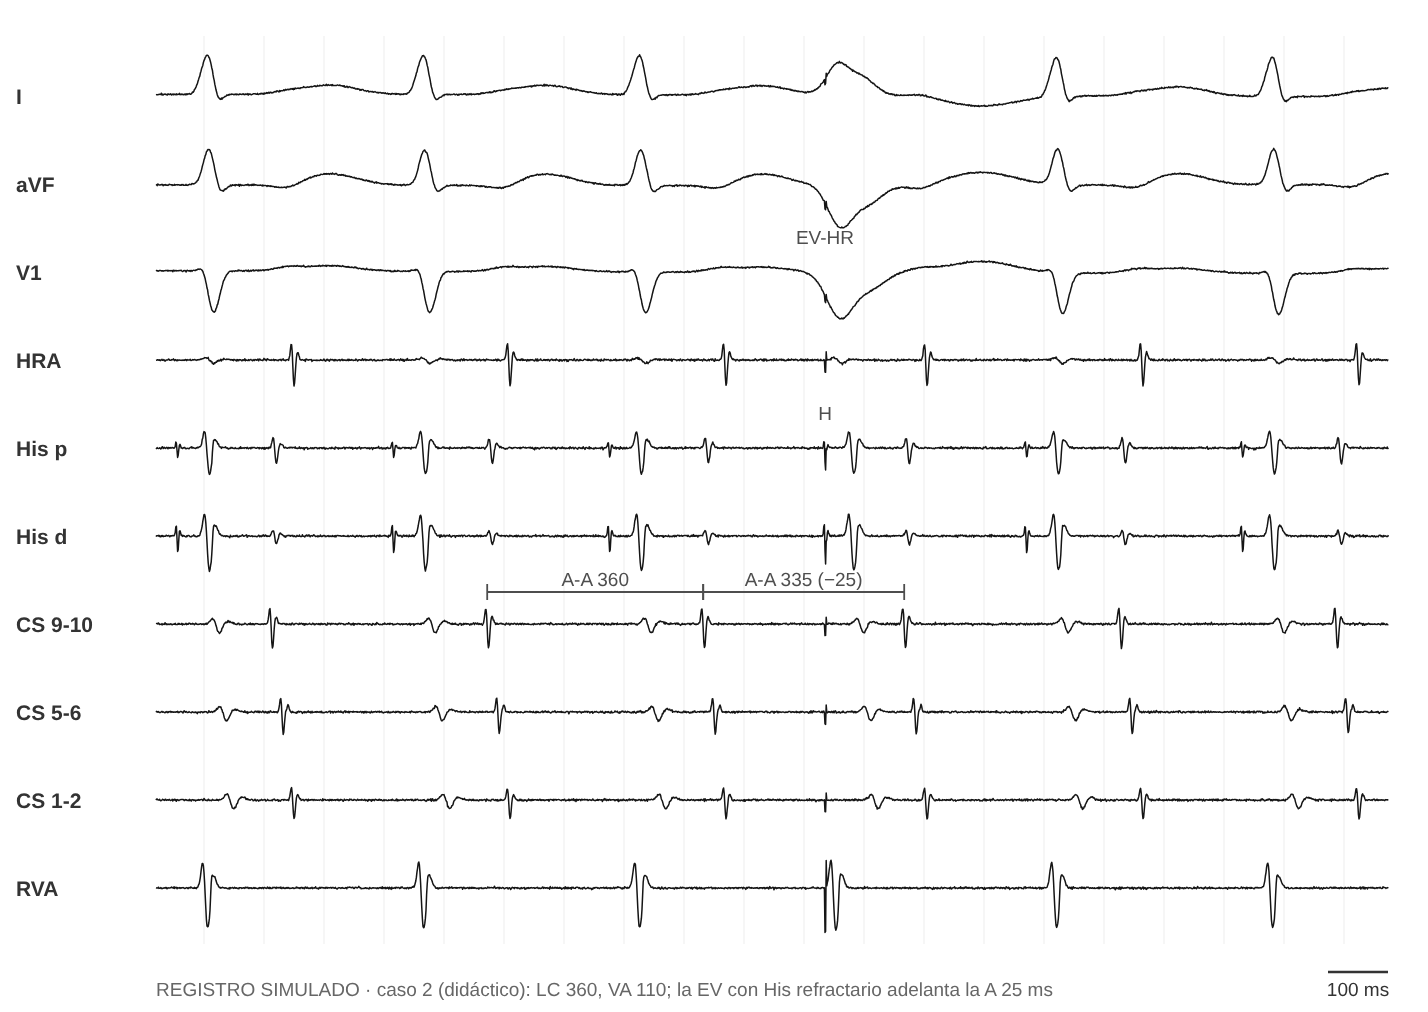
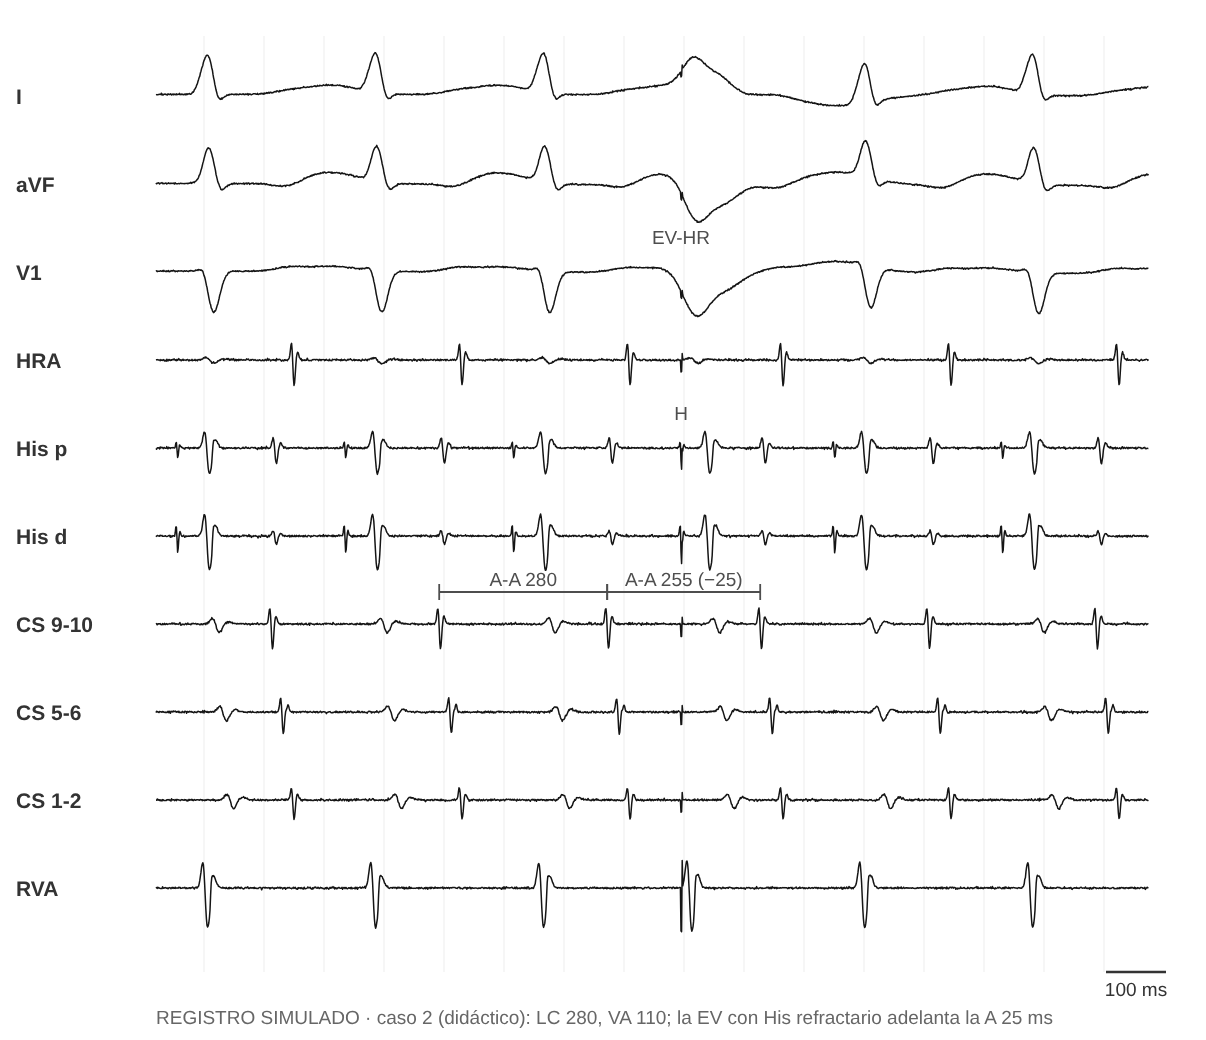
Caso 2: ECG real de TRAV septal (anonimizado), LC 280, basal, inducción, encarrilamiento y EV-HR propios
Claude-Session: https://claude.ai/code/session_01Pw5rjt62KK5LeJZoEyFiaM

diff --git a/index.html b/index.html
@@ -1081,9 +1081,10 @@ const PCASOS = [
       eha: { r: 'Un EA con His refractario desde el ostium del SC retrasa el His siguiente 14 ms.', u: 'util' } },
     dx: ['trnav_t'], ex: 'Un VA septal ≤ 70 ms excluye la TRAV, y la respuesta A-V a la sobreestimulación ventricular excluye la TA. Con esas dos observaciones se llega a la TRNAV típica (41 % de las TSV en la serie de Knight).', refs: ['knight00', 'knight99', 'veen11'] },
   { id: 'c2', t: 'TSV de RP corto con VA de 110 ms', p: 'Niña de 10 años con TSV recurrentes. ECG basal sin preexcitación.',
-    h: ['TSV de QRS angosto, LC 360 ms', 'Relación AV 1:1', 'VA septal 110 ms, RP corto', 'Activación concéntrica, más precoz en el ostium del SC'],
+    ecg: 'figs/sim/casos/c2_ecg.jpg', ecgReal: true, basal: 'figs/sim/casos/c2_basal.png', ind: 'figs/sim/casos/c2_ind.png',
+    h: ['TSV de QRS angosto, LC 280 ms', 'Relación AV 1:1', 'VA septal 110 ms, RP corto', 'Activación concéntrica, más precoz en el ostium del SC'],
     m: { vop: { r: 'Respuesta A-V. Desde el ápex el QRS estimulado no muestra fusión evidente.', u: 'util' },
-      medidas: { r: 'PPI−LC 80 ms; SA−VA 40 ms; ΔHA −45 ms.', u: 'clave', img: 'figs/sim/prac/michaud01.png' },
+      medidas: { r: 'PPI−LC 80 ms; SA−VA 40 ms; ΔHA −45 ms.', u: 'clave', img: 'figs/sim/prac/p2_vop.png' },
       ehr: { r: 'Una EV con His refractario adelanta la A 25 ms sin cambiar la secuencia.', u: 'clave', img: 'figs/sim/prac/p2_ehr.png' },
       diff: { r: 'ΔVA (base − ápex) −10 ms; ΔcPPI−LC +2 ms.', u: 'util' },
       parahis: { r: 'Al perder la captura del His el SA no cambia: respuesta extranodal.', u: 'util' },

diff --git a/sw.js b/sw.js
@@ -1,6 +1,6 @@
 // Permite instalar la app y abrirla sin conexión. Primero la red (siempre lo último publicado); si no hay, la copia.
 // Si cambiás un archivo, subí CACHE_VERSION.
-const CACHE_VERSION = 'mef-v63';
+const CACHE_VERSION = 'mef-v64';
 const ARCHIVOS = ['./', './index.html', './manifest.json', './iconos/icon-192.png', './iconos/icon-512.png'];
 self.addEventListener('install', e => e.waitUntil(caches.open(CACHE_VERSION).then(c => c.addAll(ARCHIVOS)).then(() => self.skipWaiting())));
 self.addEventListener('activate', e => e.waitUntil(caches.keys().then(ks => Promise.all(ks.filter(k => k !== CACHE_VERSION).map(k => caches.delete(k)))).then(() => self.clients.claim())));

diff --git a/herramientas/simulador/cases5.py b/herramientas/simulador/cases5.py
@@ -165,6 +165,39 @@ S['c8_ind'] = dict(win=(-80, vt[-1] + 200), pxms=0.27, title='Inducción: extrae
     extra={'LV 1-2': [(t, 0.32, 0.8) for t in p1] + [(t, 0.55, 0.7) for t in p2]},
     cal=[(sp[1], sp[2], 'RVA', 'S2 280'), (vt[2], vt[3], 'RVA', f'LC {LC8}'), (a_sin[1], a_sin[2], 'HRA', 'A-A 800')])
 
+# Caso 2 (didáctico, TRAV septal en una niña de 10 años): LC 280 como el ECG real, VA 110, AH en la TSV 125.
+S['c2_basal'] = basal('caso 2 (didáctico): AH 80, HV 45, ilustrativos', ah=80, cl=650)
+sp = [0, 600, 900]
+hs = [s + 28 + a for s, a in zip(sp, [80, 80, 150])]
+A = []
+for _ in range(6):
+    A.append(hs[-1] + HV + 110)
+    hs.append(A[-1] + 8 + 117)                       # A más precoz en el ostium del SC
+vs = [h + HV for h in hs]
+S['c2_ind'] = dict(win=(-80, vs[-1] + 200), pxms=0.30, title='Inducción: extraestímulo auricular (S1-S2 600-300)', channels=CH6,
+    src='caso 2 (didáctico): valores ilustrativos', beats=[(v, 'n') for v in vs], aspikes=sp, apace_ch='HRA',
+    atr=[(s + 5, 'sinus', 1) for s in sp] + [(a, 'conc_cs', -1) for a in A[:-1]], h_ante=hs[:-1],
+    cal=[(sp[1], sp[2], 'HRA', 'S2 300'), (sp[2] + 28, hs[2], 'His d', 'AH 150'),
+         (vs[3], A[1] + 2, 'CS 9-10', 'VA 110'), (vs[5], vs[6], 'RVA', f'LC {vs[6] - vs[5]}')])
+S['c2_ind']['beats'] = S['c2_ind']['beats'][:-1]
+S['c2_ind']['win'] = (-80, vs[-2] + 220)
+
+# Caso 2: encarrilamiento desde el ápex a 250 (6 estímulos). LC 280, VA 110, SA 150, PPI 360 (SA−VA 40 y PPI−LC 80 de Michaud).
+LC2, VA2, SC2, SA2, PPI2 = 280, 110, 250, 150, 360
+svt = [0, LC2, 2 * LC2]
+sp = [svt[-1] + 230 + SC2 * k for k in range(6)]
+A = [v + VA2 for v in svt] + [s + SA2 for s in sp]
+ret = sp[-1] + PPI2
+after = [ret, ret + LC2]
+S['p2_vop'] = dict(win=(-80, after[-1] + 220), pxms=0.28, title='Encarrilamiento desde el ápex del VD a 250 ms', channels=CH6,
+    src='caso 2 (didáctico): valores ilustrativos',
+    beats=[(v, 'n') for v in svt + after] + [(s, 'pa') for s in sp], spikes=sp,
+    atr=[(a, 'conc_cs', -1) for a in A + [v + VA2 for v in after]],
+    h_ante=[v - HV for v in svt + after], h_retro=[s + 110 for s in sp],
+    cal=[(svt[0], svt[1], 'RVA', f'LC {LC2}'), (svt[1], svt[1] + VA2 + 2, 'CS 9-10', f'VA {VA2}'),
+         (A[-2] + 2, A[-1] + 2, 'HRA', f'A-A {SC2}'), (sp[-1], A[-1] + 2, 'CS 9-10', f'SA {SA2}'),
+         (sp[-1], ret + 2, 'RVA', f'PPI {PPI2}')])
+
 if __name__ == '__main__':
     for k in (sys.argv[3:] or list(S)):
         render(S[k], f'{OUT}/{k}.svg')

diff --git a/herramientas/simulador/cases4.py b/herramientas/simulador/cases4.py
@@ -29,9 +29,9 @@ def ehr(LC, VA, seq, d, k_spike=3, early=0, typ='pa', pace='RVA', n_after=2, tit
                 marks=[(sp, 'V1', mark), (h_exp, 'His p', 'H')])
 
 
-# Caso 2: TRAV septal, LC 360, VA 110; EV-HR adelanta la A 25 ms.
-S['p2_ehr'] = ehr(360, 110, 'conc_cs', 25, src='caso 2 (didáctico): LC 360, VA 110; la EV con His refractario adelanta la A 25 ms',
-                  lab='A-A 335 (−25)')
+# Caso 2: TRAV septal, LC 280 (como el ECG real del caso), VA 110; EV-HR adelanta la A 25 ms.
+S['p2_ehr'] = ehr(280, 110, 'conc_cs', 25, src='caso 2 (didáctico): LC 280, VA 110; la EV con His refractario adelanta la A 25 ms',
+                  lab='A-A 255 (−25)')
 # Caso 5: TRNAV atípica, LC 380, VA 265; EV-HR adelanta el V local > 60 ms y no cambia la A.
 S['p5_ehr'] = ehr(380, 265, 'conc_cs', 0, early=25, src='Veenhuyzen 2011 (LC 380, VA 265); EV-HR con el V local adelantado > 60 ms, sin cambio de la A',
                   lab='A-A 380 (sin cambio)')

diff --git a/PENDIENTES.md b/PENDIENTES.md
@@ -10,7 +10,7 @@ Este archivo es una copia de referencia; las marcas se llevan en el issue.
 Cada link abre el caso en una vista de revisión: hallazgos, diagnóstico, explicación y todas las maniobras con su clasificación (clave, útil o engañosa) y su registro. En cada caso, revisá que la clasificación coincida con tu criterio docente.
 
 - [ ] [ver](https://drsebastianmaldonado.github.io/Maniobras-EEF/#revision-1) **Caso 1: Palpitaciones de inicio y fin bruscos**. Didáctico (TRNAV típica); ilustrativos: PPI−LC 170, SA−VA 150, ΔVA +35 y EA que retrasa 14 ms.
-- [ ] [ver](https://drsebastianmaldonado.github.io/Maniobras-EEF/#revision-2) **Caso 2: TSV de RP corto con VA de 110 ms**. Didáctico (TRAV septal); PPI−LC 80 y SA−VA 40 de Michaud; ΔHA −45 y EV-HR que adelanta 25 ms son ilustrativos.
+- [ ] [ver](https://drsebastianmaldonado.github.io/Maniobras-EEF/#revision-2) **Caso 2: TSV de RP corto con VA de 110 ms**. Didáctico (TRAV septal) con tu ECG real: la LC pasó de 360 a 280; PPI−LC 80 y SA−VA 40 de Michaud; ΔHA −45 y EV-HR que adelanta 25 ms son ilustrativos.
 - [ ] [ver](https://drsebastianmaldonado.github.io/Maniobras-EEF/#revision-3) **Caso 3: Taquicardia incesante con disfunción ventricular**. Didáctico (TA).
 - [ ] [ver](https://drsebastianmaldonado.github.io/Maniobras-EEF/#revision-4) **Caso 4: TSV con activación excéntrica**. Datos publicados: Veenhuyzen 2011, fig. 1B y 5.
 - [ ] [ver](https://drsebastianmaldonado.github.io/Maniobras-EEF/#revision-5) **Caso 5: TSV de RP largo con "A-A-V"**. Datos publicados: Veenhuyzen 2011, fig. 3.
